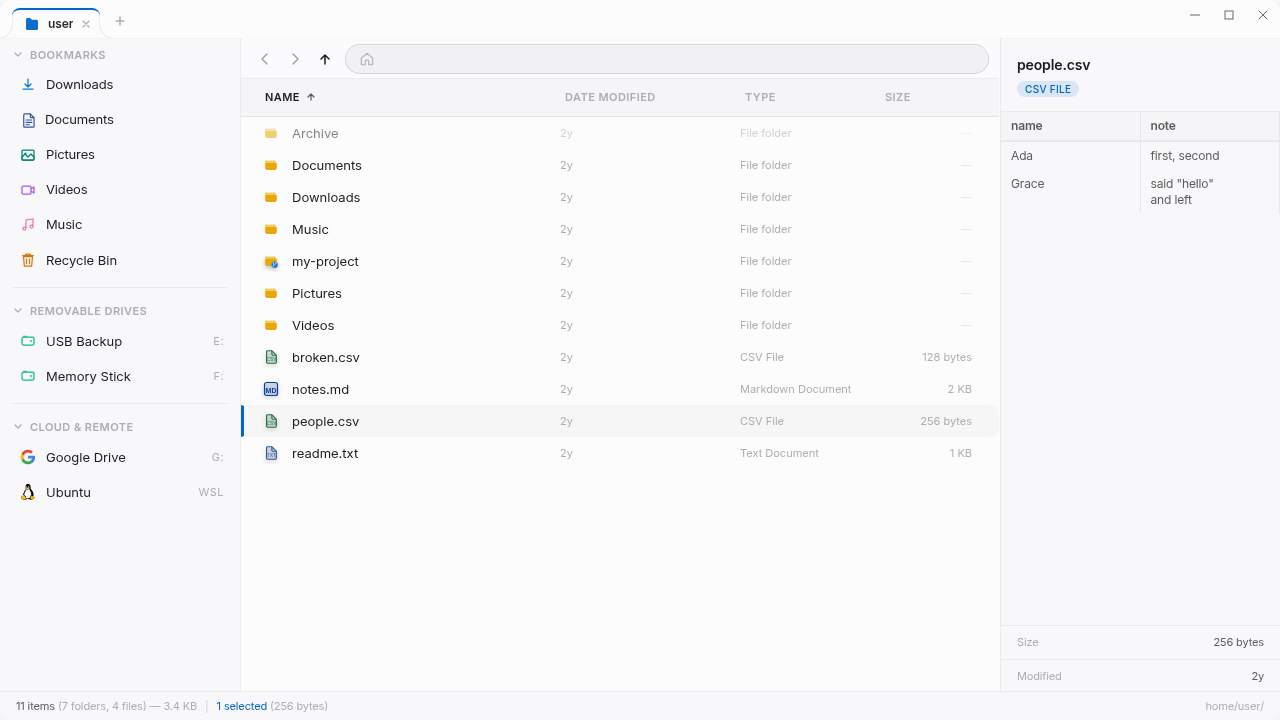
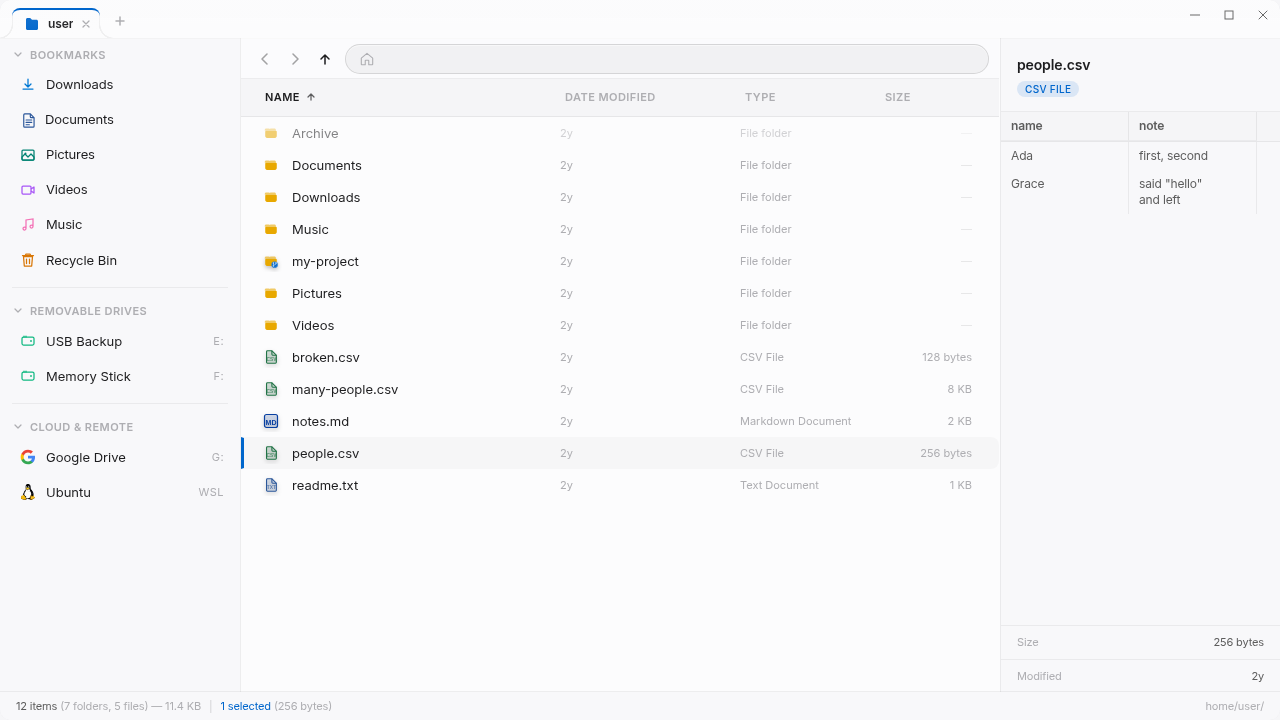
test: cover CSV preview bounds

diff --git a/e2e/csv-preview.spec.ts b/e2e/csv-preview.spec.ts
@@ -12,7 +12,7 @@ test.describe("CSV preview", () => {
   });
 
   test("renders CSV records as a virtualized table and keeps invalid CSV as text", async ({ page }) => {
-    await page.locator(".entry-item", { hasText: "people.csv" }).first().click();
+    await page.locator('[data-path="/home/user/people.csv"]').click();
 
     const table = page.getByRole("table", { name: "CSV preview" });
     await expect(table).toBeVisible();
@@ -26,12 +26,33 @@ test.describe("CSV preview", () => {
     await expect(page.locator(".preview-text")).toHaveCount(0);
     await page.screenshot({ path: "evidence/ac-1-csv-table.png" });
 
-    await page.locator(".entry-item", { hasText: "broken.csv" }).first().click();
+    await page.locator('[data-path="/home/user/broken.csv"]').click();
     await expect(page.locator(".preview-text")).toContainText('Ada,"unterminated');
     await page.screenshot({ path: "evidence/ac-2-malformed-csv-fallback.png" });
 
-    await page.locator(".entry-item", { hasText: "readme.txt" }).first().click();
+    await page.locator('[data-path="/home/user/readme.txt"]').click();
     await expect(page.locator(".preview-text")).toContainText("This is a readme file.");
     await page.screenshot({ path: "evidence/ac-3-text-preview-unchanged.png" });
+
+    await page.locator('[data-path="/home/user/notes.md"]').click();
+    const markdown = page.locator(".preview-markdown");
+    await expect(markdown).toBeVisible();
+    await expect(markdown.locator("h1")).toHaveText("Notes");
+    await page.screenshot({ path: "evidence/ac-4-markdown-preview-unchanged.png" });
+  });
+
+  test("bounds large CSV previews and virtualizes rows while scrolling", async ({ page }) => {
+    await page.locator('[data-path="/home/user/many-people.csv"]').click();
+
+    const rows = page.locator(".preview-csv-rows [role=row]");
+    await expect(rows.first()).toContainText("Person 1");
+    expect(await rows.count()).toBeLessThan(50);
+
+    await page.locator(".preview-csv-rows").evaluate((element) => {
+      element.scrollTop = element.scrollHeight;
+    });
+    await expect(rows.last()).toContainText("Person 200");
+    expect(await rows.count()).toBeLessThan(50);
+    await page.screenshot({ path: "evidence/ac-5-large-csv-virtualized.png" });
   });
 });

diff --git a/src/lib/api/mock-invoke.ts b/src/lib/api/mock-invoke.ts
@@ -78,6 +78,7 @@ const mockFiles: Record<string, FileEntry[]> = {
     file("notes.md", "/home/user/notes.md", 2048),
     file("people.csv", "/home/user/people.csv", 256),
     file("broken.csv", "/home/user/broken.csv", 128),
+    file("many-people.csv", "/home/user/many-people.csv", 8192),
   ],
   "/home/user/Archive": [],
   "/home/user/my-project": [
@@ -1204,6 +1205,7 @@ const mockFileContent: Record<string, string> = {
   "/home/user/readme.txt": "This is a readme file.\n",
   "/home/user/people.csv": 'name,note\nAda,"first, second"\nGrace,"said ""hello""\nand left"\n',
   "/home/user/broken.csv": 'name,note\nAda,"unterminated',
+  "/home/user/many-people.csv": ["name,note", ...Array.from({ length: 250 }, (_, index) => `Person ${index + 1},record ${index + 1}`)].join("\n"),
   "/home/user/notes.md": [
     "---",
     "title: August notes",

diff --git a/src/lib/components/PreviewPane.svelte b/src/lib/components/PreviewPane.svelte
@@ -1357,7 +1357,7 @@
 
   .preview-csv-row {
     display: grid;
-    grid-template-columns: repeat(var(--csv-columns), minmax(8rem, 1fr));
+    grid-template-columns: repeat(var(--csv-columns), minmax(8rem, max-content));
     min-width: max-content;
   }
 
@@ -1373,11 +1373,9 @@
   .preview-csv-cell {
     min-width: 0;
     padding: 6px 10px;
-    overflow: hidden;
     border-right: 1px solid var(--divider);
     border-bottom: 1px solid color-mix(in srgb, var(--divider) 65%, transparent);
-    overflow-wrap: anywhere;
-    white-space: pre-wrap;
+    white-space: pre;
     line-height: 16px;
   }
 
